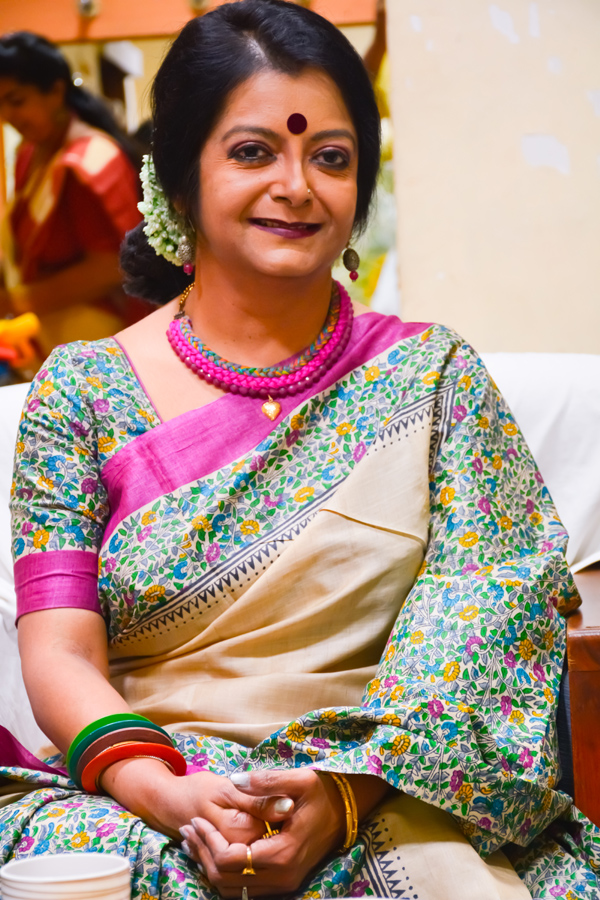
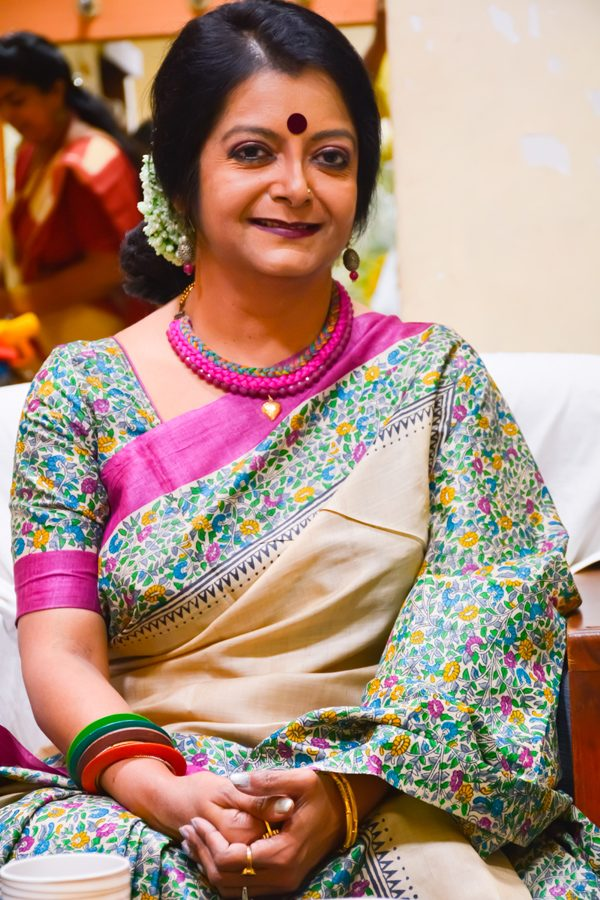
feat: implement performance optimizations for low-RAM devices and add new gallery images

diff --git a/script.js b/script.js
@@ -23,6 +23,7 @@
 
   const reduceMotion = window.matchMedia('(prefers-reduced-motion: reduce)').matches;
   const finePointer = window.matchMedia('(hover: hover) and (pointer: fine)').matches;
+  const lite = root.classList.contains('perf-lite'); // low-RAM / slow device (set in <head>)
   const hasGSAP = typeof window.gsap !== 'undefined';
   const hasST = hasGSAP && typeof window.ScrollTrigger !== 'undefined';
   const animate = hasST && !reduceMotion;
@@ -98,7 +99,8 @@
      SMOOTH SCROLL (Lenis ⇄ ScrollTrigger)
      ====================================================================== */
   function initSmoothScroll() {
-    if (reduceMotion || typeof window.Lenis === 'undefined') return;
+    // Native scrolling is cheaper and more responsive on low-end devices
+    if (reduceMotion || lite || typeof window.Lenis === 'undefined') return;
     lenis = new Lenis({ lerp: 0.09, smoothWheel: true, wheelMultiplier: 1 });
     root.style.scrollBehavior = 'auto';
     if (hasST) {
@@ -423,14 +425,13 @@
     const footTl = gsap.timeline({ scrollTrigger: { trigger: '.footer__grid', start: 'top 80%' } });
     footTl
       .from('.footer__logo', { rotate: -180, scale: 0, duration: 1.6, ease: 'expo.out' })
-      .from('.footer__brand > *:not(.footer__logo), .footer__col', { y: 40, opacity: 0, duration: 1.1, ease: 'expo.out', stagger: 0.08 }, 0.15);
+      .from('.footer__brand > *:not(.footer__logo), .footer__col', { y: 40, opacity: 0, duration: 1.1, ease: 'expo.out', stagger: 0.08 }, 0.15)
+      // the bottom line sits at the very end of the page, where its own trigger
+      // could fall past the max scroll on slow devices — ride this timeline instead
+      .from('.footer__bottom', { opacity: 0, y: 20, duration: 1 }, 0.5);
     gsap.from('.footer__marquee--names', {
       y: 60, opacity: 0, duration: 1.6, ease: 'expo.out',
       scrollTrigger: { trigger: '.footer__marquee--names', start: 'top 98%' },
-    });
-    gsap.from('.footer__bottom', {
-      opacity: 0, y: 20, duration: 1,
-      scrollTrigger: { trigger: '.footer__bottom', start: 'top 100%' },
     });
   }
 
@@ -442,7 +443,7 @@
     const colors = ['#ffd93b', '#ff5aa8', '#ffffff', '#f5a623'];
     const isSmall = window.innerWidth < 760;
     $$('[data-particles]').forEach((wrap) => {
-      const n = Math.round(Number(wrap.dataset.particles) * (isSmall ? 0.5 : 1));
+      const n = Math.round(Number(wrap.dataset.particles) * (isSmall ? 0.5 : 1) * (lite ? 0.4 : 1));
       const frag = document.createDocumentFragment();
       for (let i = 0; i < n; i++) {
         const p = document.createElement('span');
@@ -495,6 +496,16 @@
       clearTimeout(timer);
       timer = setTimeout(fill, 200);
     });
+  }
+
+  /** Pause the CSS loops (particles, glows, marquees, gradients) of any
+   *  section that is off screen, so the device only animates what is visible. */
+  function initOffscreenPause() {
+    if (!('IntersectionObserver' in window)) return;
+    const io = new IntersectionObserver((entries) => {
+      entries.forEach((e) => e.target.classList.toggle('is-offscreen', !e.isIntersecting));
+    }, { rootMargin: '150px 0px' });
+    $$('main > section, main > .tapes, .footer').forEach((s) => io.observe(s));
   }
 
   function initTimelineTicks() {
@@ -711,6 +722,7 @@
     initTimelineTicks();
     initMarquees();
     initParticles();
+    initOffscreenPause();
     initSmoothScroll();
     initNav();
     initMobileMenu();

diff --git a/index.html b/index.html
@@ -18,6 +18,20 @@
   <link href="https://fonts.googleapis.com/css2?family=Anek+Bangla:wdth,wght@75..125,300..800&family=Cormorant+Garamond:ital,wght@0,400;0,500;0,600;1,400;1,500;1,600&family=Hind+Siliguri:wght@300;400;500;600;700&family=Noto+Serif+Bengali:wght@400..900&display=swap" rel="stylesheet">
 
   <link rel="preload" as="image" href="assets/22.jpg">
+
+  <!-- Lite mode: low-RAM / low-core devices and slow or data-saver connections keep the
+       same design and entrance animations, but skip the costly always-running effects.
+       Force it for testing with ?lite, or turn it off with ?full. -->
+  <script>
+    (function () {
+      var n = navigator, c = n.connection || {}, q = location.search;
+      var lite = /[?&]lite\b/.test(q) || (!/[?&]full\b/.test(q) && (
+        (n.deviceMemory && n.deviceMemory <= 4) ||
+        (n.hardwareConcurrency && n.hardwareConcurrency <= 2) ||
+        c.saveData || /^(slow-2g|2g|3g)$/.test(c.effectiveType || '')));
+      if (lite) document.documentElement.classList.add('perf-lite');
+    })();
+  </script>
   <link rel="stylesheet" href="style.css">
 
   <!-- Animation libraries (deferred, executed in order) -->
@@ -291,7 +305,7 @@
         <figure class="artist__portrait" data-cursor="view">
           <div class="artist__mask">
             <div class="artist__mask-inner">
-              <img class="artist__photo" src="assets/gallery-6.png" width="800" height="600" loading="lazy" alt="শ্রীমতী ব্রততী বন্দ্যোপাধ্যায়, মঞ্চে আবৃত্তিরত">
+              <img class="artist__photo" src="assets/gallery-6.jpg" width="1200" height="896" loading="lazy" alt="শ্রীমতী ব্রততী বন্দ্যোপাধ্যায়, মঞ্চে আবৃত্তিরত">
             </div>
           </div>
           <figcaption class="artist__vert en">The Voice of Bengali Recitation</figcaption>

diff --git a/style.css b/style.css
@@ -1346,6 +1346,30 @@ html:not(.js) .loader { display: none; }
   .footer__marquee-track { animation-duration: var(--mq-dur-slow, 70s) !important; animation-iteration-count: infinite !important; }
 }
 
+/* ---------- 20. Performance ---------- */
+/* Looping effects pause while their section is off screen (class set by script.js) */
+.is-offscreen, .is-offscreen::before, .is-offscreen::after,
+.is-offscreen *, .is-offscreen *::before, .is-offscreen *::after { animation-play-state: paused !important; }
+
+/* Lite mode (low-RAM / slow devices — detected in <head>): same look, but the
+   effects that repaint every frame or hold large GPU layers are made static */
+.perf-lite body::after { display: none; }
+.perf-lite .glow-border::before,
+.perf-lite .ws-card::before,
+.perf-lite .evening::before,
+.perf-lite .reg::before { animation: none; --angle: 140deg; }
+.perf-lite .hero__glow { animation: none; will-change: auto; }
+.perf-lite .hero__spot,
+.perf-lite .hero__subtitle,
+.perf-lite .jubilee__count,
+.perf-lite .invite { animation: none; }
+.perf-lite .particle { box-shadow: none; }
+.perf-lite .nav.is-scrolled .nav__bar { -webkit-backdrop-filter: none; backdrop-filter: none; background: rgba(12, 9, 34, .94); }
+.perf-lite .hero__tag { -webkit-backdrop-filter: none; backdrop-filter: none; background: rgba(12, 9, 34, .92); }
+.perf-lite .hero__dock,
+.perf-lite .evening { -webkit-backdrop-filter: none; backdrop-filter: none; }
+.perf-lite .ws-card { -webkit-backdrop-filter: none; backdrop-filter: none; background: rgba(12, 9, 34, .82); }
+
 /* Pause the moving strips while hovered (lets people read them) */
 .tapes:hover .tape__track,
 .footer__marquee:hover .footer__marquee-track { animation-play-state: paused; }
